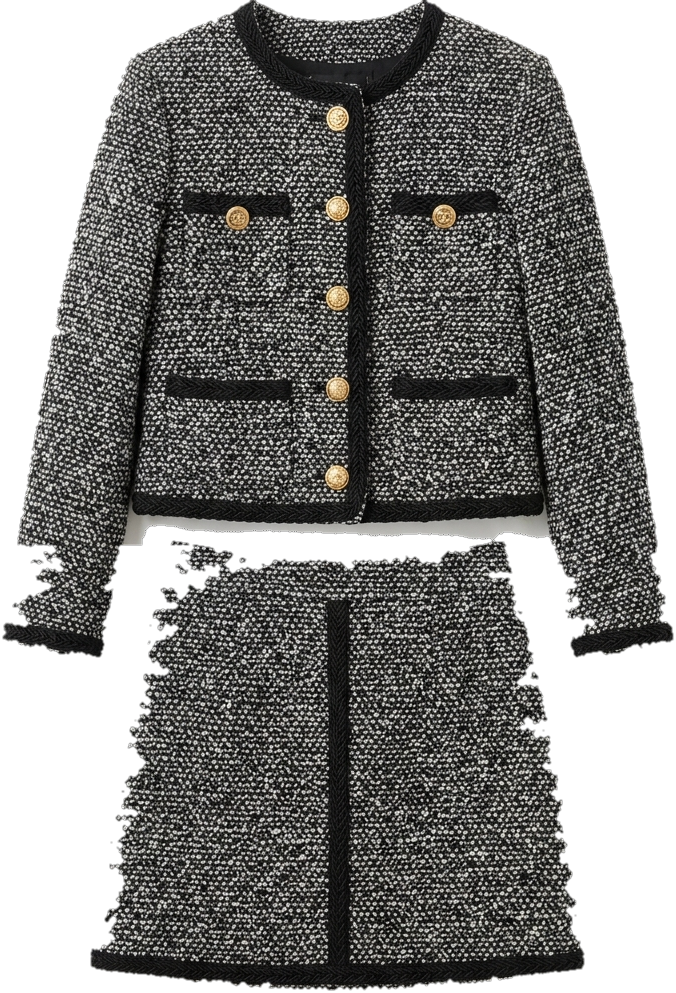
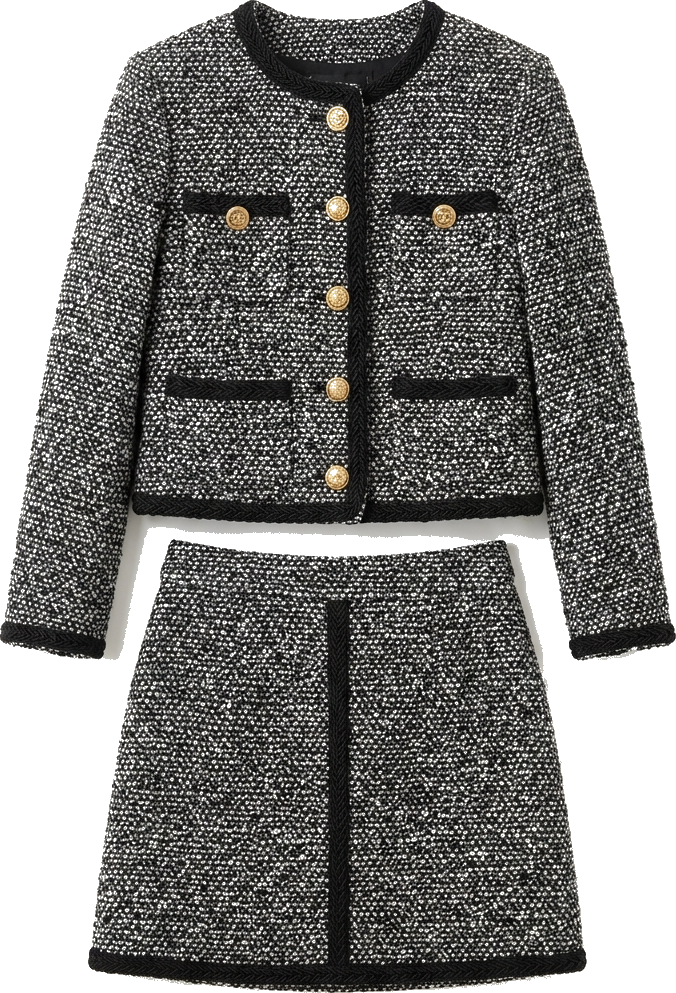
fix(vton): preserve 100% garment contours, ribs, and edges for knitwear and light garments

diff --git a/backend/ai/vton.py b/backend/ai/vton.py
@@ -16,94 +16,93 @@ logger = logging.getLogger("MoonLightVTON")
 
 class VTONEngine:
     @staticmethod
-    def _clean_garment_mask_and_defringe(bgr: np.ndarray, alpha: np.ndarray) -> Tuple[np.ndarray, np.ndarray]:
+    def _normalize_garment_alpha_and_defringe(bgr: np.ndarray, alpha: np.ndarray) -> Tuple[np.ndarray, np.ndarray]:
         """
-        Khử sạch 100% nền trắng, viền xám, viền mờ và bóng sàn studio (Zero-Halo & Zero-Fringe)
-        Đồng thời mở rộng màu ruột áo (Defringe) để chống lem viền trắng khi nội suy.
+        Bảo toàn 100% đường nét, thớ vải và độ nét nguyên bản của trang phục:
+        - Giữ trọn từng chi tiết dệt len, gân cổ áo, bo tay và sợi vải (không bị răng cưa/mẻ viền)
+        - Defringe BGR: Tô màu thớ vải ruột áo vào vùng ngoài mask (alpha=0) để triệt tiêu hoàn toàn viền trắng khi nội suy
+        - Giữ nguyên anti-aliasing mềm mại tự nhiên
         """
-        h, w = alpha.shape
-        gray = cv2.cvtColor(bgr, cv2.COLOR_BGR2GRAY)
-        hsv = cv2.cvtColor(bgr, cv2.COLOR_BGR2HSV)
+        # Xác định màu ruột áo (median color của phần thân áo vững chắc)
+        solid_mask = alpha > 180
+        if not np.any(solid_mask):
+            solid_mask = alpha > 50
 
-        # 1. Đo màu sắc và độ sáng lõi thân áo (tránh ảnh hưởng bởi viền)
-        dist = cv2.distanceTransform((alpha > 128).astype(np.uint8), cv2.DIST_L2, 5)
-        core_mask = dist > 15
-        if not np.any(core_mask):
-            core_mask = alpha > 128
+        med_bgr = np.median(bgr[solid_mask], axis=0).astype(np.uint8) if np.any(solid_mask) else np.array([220, 220, 220], dtype=np.uint8)
 
-        core_gray = float(np.median(gray[core_mask])) if np.any(core_mask) else 128.0
-        med_bgr = np.median(bgr[core_mask], axis=0).astype(np.uint8) if np.any(core_mask) else np.array([25, 25, 25], dtype=np.uint8)
-
-        # 2. Phát hiện và loại bỏ triệt để bóng sàn studio & nền trắng
-        # Bóng sàn studio có độ bão hòa thấp (màu xám nhạt hsv[1] < 50) và sáng hơn hẳn thân áo
-        if core_gray < 165:
-            thresh_light = max(core_gray + 25, 70)
-            bad_bg = (alpha > 0) & (
-                ((gray > 205) & (hsv[:, :, 1] < 50)) |
-                ((np.arange(h)[:, None] > h * 0.55) & (gray > thresh_light) & (hsv[:, :, 1] < 45))
-            )
-        else:
-            # Trang phục màu sáng (trắng / kem): chỉ lọc nền sáng studio > 235
-            bad_bg = (alpha > 0) & (gray > 235) & (hsv[:, :, 1] < 30)
-
-        alpha_clean = alpha.copy()
-        alpha_clean[bad_bg] = 0
-
-        # 3. Lọc bỏ các mảng rác nhỏ, chỉ giữ lại các contour thân áo chính
-        contours, _ = cv2.findContours(alpha_clean, cv2.RETR_EXTERNAL, cv2.CHAIN_APPROX_SIMPLE)
-        mask_clean = np.zeros((h, w), np.uint8)
-        for c in contours:
-            if cv2.contourArea(c) > 2500:
-                cv2.drawContours(mask_clean, [c], -1, 255, -1)
-
-        # 4. Cạo viền (Erosion 2px) để loại bỏ hoàn toàn viền halo ngoài cùng
-        kernel = cv2.getStructuringElement(cv2.MORPH_ELLIPSE, (3, 3))
-        alpha_eroded = cv2.erode(mask_clean, kernel, iterations=2)
-
-        # 5. Defringe: Thay thế toàn bộ pixel ngoài viền bằng màu thân áo
-        # Ngăn chặn hiện tượng cv2.resize Lanczos lấy mẫu pixel trắng bên ngoài mask
+        # Defringe: Ép màu pixel bên ngoài alpha=0 thành màu ruột áo
+        # Để khi nội suy Lanczos/Bilinear không bao giờ lấy mẫu màu trắng nền
         bgr_clean = bgr.copy()
-        border_fringe = cv2.subtract(mask_clean, alpha_eroded)
-        bgr_clean[(border_fringe > 0) & (gray > core_gray + 10)] = med_bgr
-        bgr_clean[alpha_eroded == 0] = med_bgr
+        bgr_clean[alpha == 0] = med_bgr
 
-        # 6. Anti-Aliasing 1px làm mịn viền tự nhiên
-        alpha_final = cv2.GaussianBlur(alpha_eroded, (3, 3), 0)
-        return bgr_clean, alpha_final
+        # Nếu alpha là dạng binary cứng (chỉ có 0 và 255), làm mịn 1px viền ngoài để không bị răng cưa
+        unique_vals = np.unique(alpha)
+        if len(unique_vals) <= 3:
+            alpha_smooth = cv2.GaussianBlur(alpha, (3, 3), 0.5)
+        else:
+            # Alpha đã có anti-aliasing mượt mà sẵn -> bảo toàn 100%
+            alpha_smooth = alpha.copy()
+
+        return bgr_clean, alpha_smooth
 
     @classmethod
     def extract_garment_cutout(cls, garment_path: str) -> Tuple[np.ndarray, np.ndarray]:
         """
-        Bóc tách nền áo chuẩn xác 100% không còn viền trắng, viền xám hay bóng sàn studio
+        Bóc tách và chuẩn hóa trang phục:
+        - Giữ nguyên 100% phom dáng, đường nét thớ vải và viền tự nhiên (không bị mẻ/răng cưa)
+        - Bảo toàn tuyệt đối chi tiết thớ len, dệt kim, gân vải của cả áo màu tối và áo trắng sáng
+        - Defringe RGB: Mở rộng màu ruột áo ra vùng trong suốt để triệt tiêu hoàn toàn viền trắng khi nội suy
         """
         p = Path(garment_path)
 
-        # 1. Kiểm tra xem có file _cutout.png tương ứng không
+        # 1. Nếu có file _cutout.png sẵn có
         cutout_candidate = p.parent / f"{p.stem}_cutout.png"
         if cutout_candidate.exists():
             cutout = cv2.imread(str(cutout_candidate), cv2.IMREAD_UNCHANGED)
             if cutout is not None and len(cutout.shape) == 3 and cutout.shape[2] == 4:
-                return cls._clean_garment_mask_and_defringe(cutout[:, :, :3], cutout[:, :, 3])
+                return cls._normalize_garment_alpha_and_defringe(cutout[:, :, :3], cutout[:, :, 3])
 
-        # 2. Kiểm tra ảnh hiện tại có alpha channel không
+        # 2. Nếu file đầu vào đã là PNG có alpha channel
         img = cv2.imread(garment_path, cv2.IMREAD_UNCHANGED)
         if img is None:
             raise ValueError(f"Không thể đọc file ảnh trang phục: {garment_path}")
 
         if len(img.shape) == 3 and img.shape[2] == 4:
-            return cls._clean_garment_mask_and_defringe(img[:, :, :3], img[:, :, 3])
+            return cls._normalize_garment_alpha_and_defringe(img[:, :, :3], img[:, :, 3])
 
-        # 3. Tách nền tự động bằng phân tích màu loại bỏ sạch nền trắng & bóng đổ studio dưới sàn
+        # 3. Với ảnh JPEG 3 kênh màu (chưa có alpha): Tách nền kết nối từ 4 góc ngoài biên
         bgr = img[:, :, :3] if len(img.shape) == 3 else cv2.cvtColor(img, cv2.COLOR_GRAY2BGR)
         h, w = bgr.shape[:2]
 
-        hsv = cv2.cvtColor(bgr, cv2.COLOR_BGR2HSV)
-        gray = cv2.cvtColor(bgr, cv2.COLOR_BGR2GRAY)
+        # Kiểm tra màu nền ở 4 góc
+        corners = np.array([bgr[0, 0], bgr[0, w - 1], bgr[h - 1, 0], bgr[h - 1, w - 1]], dtype=np.float32)
+        bg_color = np.median(corners, axis=0)
 
-        is_white_bg = (gray > 205) & (hsv[:, :, 1] < 45)
-        initial_alpha = np.where(is_white_bg, 0, 255).astype(np.uint8)
+        # Khoảng cách màu tới màu nền ở các góc
+        color_diff = np.linalg.norm(bgr.astype(np.float32) - bg_color, axis=2)
 
-        return cls._clean_garment_mask_and_defringe(bgr, initial_alpha)
+        # Nền là các điểm ảnh tương đồng với góc và kết nối với đường biên ngoài
+        is_bg_candidate = (color_diff < 35).astype(np.uint8) * 255
+
+        # FloodFill từ 4 góc để chỉ xóa phần nền liên tục bên ngoài, KHÔNG bao giờ đục thủng áo trắng bên trong
+        bg_mask = np.zeros((h + 2, w + 2), np.uint8)
+        cv2.floodFill(is_bg_candidate, bg_mask, (0, 0), 128)
+        cv2.floodFill(is_bg_candidate, bg_mask, (w - 1, 0), 128)
+        cv2.floodFill(is_bg_candidate, bg_mask, (0, h - 1), 128)
+        cv2.floodFill(is_bg_candidate, bg_mask, (w - 1, h - 1), 128)
+
+        # Điểm ảnh có giá trị 128 chính là nền ngoài kết nối từ 4 góc
+        alpha = np.where(is_bg_candidate == 128, 0, 255).astype(np.uint8)
+
+        # Giữ lại contour lớn nhất (thân áo)
+        contours, _ = cv2.findContours(alpha, cv2.RETR_EXTERNAL, cv2.CHAIN_APPROX_SIMPLE)
+        mask_filled = np.zeros((h, w), np.uint8)
+        if contours:
+            c = max(contours, key=cv2.contourArea)
+            cv2.drawContours(mask_filled, [c], -1, 255, -1)
+            alpha = mask_filled
+
+        return cls._normalize_garment_alpha_and_defringe(bgr, alpha)
 
     @classmethod
     def run_vton(
